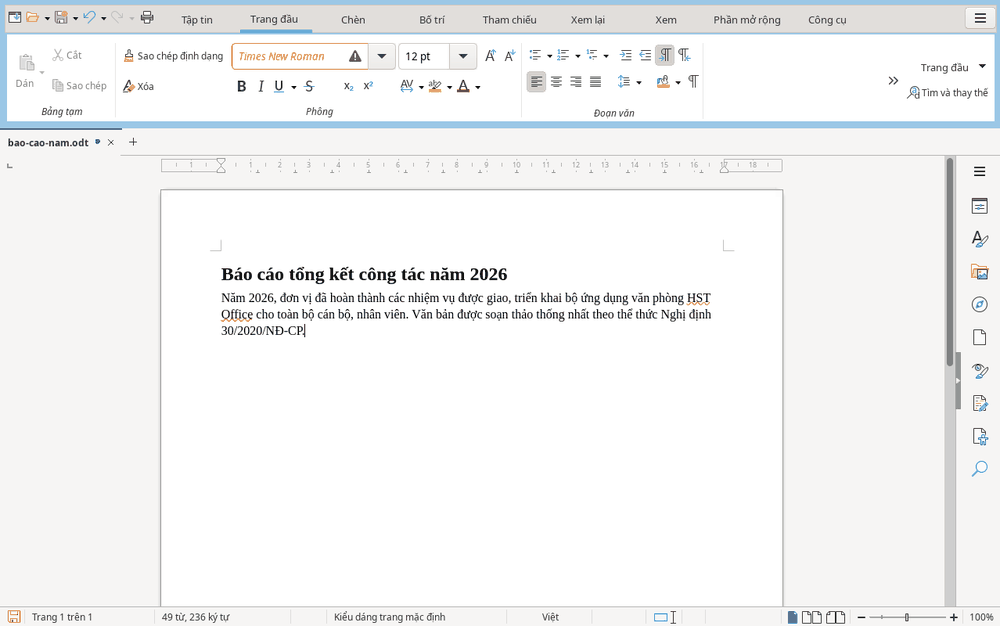
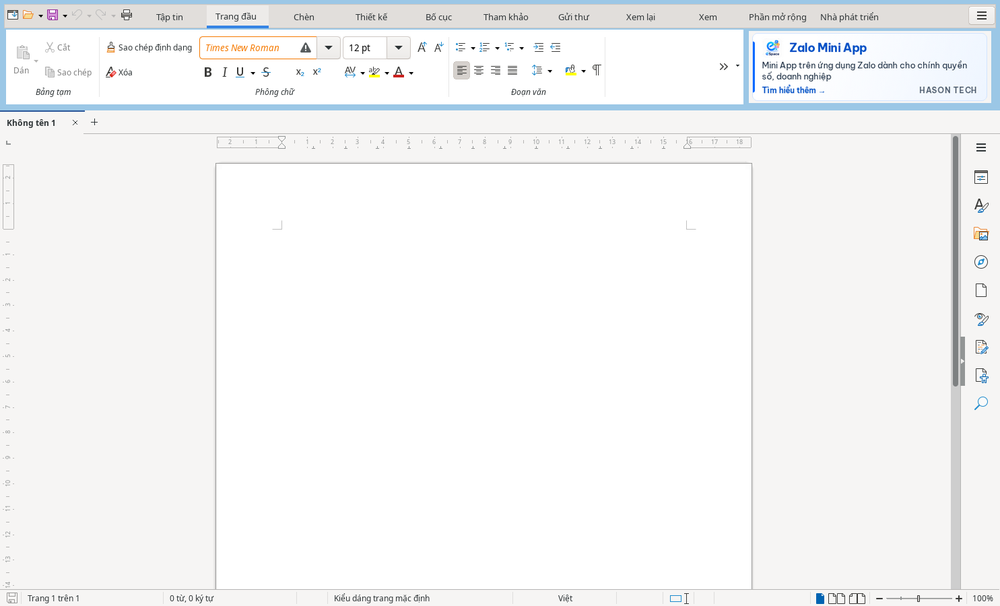
fix(help): Writer screenshot with the new ribbon, startup abort count in the backlog

diff --git a/extensions/hst-vietnamese-tools/help/van-ban-soan-thao.html b/extensions/hst-vietnamese-tools/help/van-ban-soan-thao.html
@@ -36,7 +36,7 @@
   <li>Mở thẻ <span class="menu">Trang đầu</span> để đổi phông và cỡ chữ.</li>
   <li>Dùng <span class="keys"><kbd>Ctrl</kbd>+<kbd>B</kbd></span> để in đậm, <span class="keys"><kbd>Ctrl</kbd>+<kbd>I</kbd></span> để in nghiêng hoặc <span class="keys"><kbd>Ctrl</kbd>+<kbd>U</kbd></span> để gạch chân.</li>
 </ol>
-<figure><img src="images/writer-home.png" alt="Thẻ Trang đầu trong HST Writer hiển thị phông Times New Roman, cỡ chữ 12 pt và các nút định dạng chữ." loading="lazy" width="1000" height="626"><figcaption>Các lệnh phông chữ và đoạn văn nằm trên thẻ <span class="menu">Trang đầu</span>.</figcaption></figure>
+<figure><img src="images/writer-home.png" alt="Thẻ Trang đầu trong HST Writer hiển thị phông Times New Roman, cỡ chữ 12 pt và các nút định dạng chữ." loading="lazy" width="1000" height="606"><figcaption>Các lệnh phông chữ và đoạn văn nằm trên thẻ <span class="menu">Trang đầu</span>.</figcaption></figure>
 <h2>Căn lề đoạn văn</h2>
 <p>Chọn đoạn cần định dạng, rồi dùng phím tắt tương ứng.</p>
 <table><thead><tr><th scope="col">Cách căn</th><th scope="col">Phím tắt</th></tr></thead><tbody>

diff --git a/extensions/hst-vietnamese-tools/help/giao-dien.html b/extensions/hst-vietnamese-tools/help/giao-dien.html
@@ -29,7 +29,7 @@
   <p class="eyebrow">Bắt đầu</p>
   <h1>Giao diện theo thẻ</h1>
 <p class="lead">Giao diện <span class="menu">Theo thẻ</span> được bật sẵn. Các lệnh được xếp thành nhóm trên các thẻ ở phía trên cửa sổ.</p>
-<figure><img src="images/writer-home.png" alt="HST Writer mở thẻ Trang đầu, với các nhóm Phông chữ, Đoạn văn và dãy biểu tượng Thanh bên ở bên phải." loading="lazy" width="1000" height="626"><figcaption>Thẻ <span class="menu">Trang đầu</span> trong HST Writer; <span class="menu">Thanh bên</span> nằm ở cạnh phải.</figcaption></figure>
+<figure><img src="images/writer-home.png" alt="HST Writer mở thẻ Trang đầu, với các nhóm Phông chữ, Đoạn văn và dãy biểu tượng Thanh bên ở bên phải." loading="lazy" width="1000" height="606"><figcaption>Thẻ <span class="menu">Trang đầu</span> trong HST Writer; <span class="menu">Thanh bên</span> nằm ở cạnh phải.</figcaption></figure>
 <h2>Tìm lệnh theo công việc</h2>
 <ul>
   <li><span class="menu">Tập tin</span>: tạo, mở, lưu, in và xuất PDF.</li>

diff --git a/docs/BACKLOG.md b/docs/BACKLOG.md
@@ -108,7 +108,7 @@ Bảng cũ được lưu tại Git main `577f620`, [plan plugin-first](../plans/
   - Chuyển tab tài liệu mượt như trình duyệt trên cả 3 hệ điều hành (chủ dự án 2026-10-31): trên macOS mỗi lần chuyển tab trông như chuyển sang màn hình khác; tìm nguyên nhân (mỗi tab là một cửa sổ riêng bị ẩn/hiện) và sửa cho chuyển tab tức thì, không hiệu ứng, cùng vị trí/kích thước.
 - **v1.0.0-beta.5 (chủ dự án 2026-11-04: không phát hành beta.4.1; mọi sửa lỗi sau beta.4 và các việc dưới đây vào beta.5):**
   - Ribbon theo Microsoft Office: thẻ và nhóm của Writer, Sheets, Slides theo Word, Excel, PowerPoint (đã làm, `hst-ribbon-tabs.patch`, `tests/runtime/check-ribbon-tabs.py`; chỉ thử trên gtk3 Linux, Windows/macOS chưa thử). Chuyển tiếp và Hoạt hình mở bảng bên, chưa có bộ sưu tập hiệu ứng ngay trên ribbon.
-  - Chưa rõ nguyên nhân: một lần soffice dừng (signal 6) trong `SfxDispatcher::QueryState` khi ribbon được dựng từ `SwDocShell::GetState` lúc đang nạp tài liệu (báo 2026-11-05). Không tái hiện được: 0/630 lần khởi động. `hst-writer-ribbon-own-view.patch` là chốt phòng thủ, chưa chứng minh là sửa đúng; mở lại nếu gặp lần nữa.
+  - Chưa rõ nguyên nhân: một lần soffice dừng (signal 6) trong `SfxDispatcher::QueryState` khi ribbon được dựng từ `SwDocShell::GetState` lúc đang nạp tài liệu (báo 2026-11-05). Không tái hiện được: 0/450 lần khởi động có mở tài liệu (thêm 180 lần khởi động thường chưa chắc đã qua hộp thoại chào mừng). `hst-writer-ribbon-own-view.patch` là chốt phòng thủ, chưa chứng minh là sửa đúng; mở lại nếu gặp lần nữa.
   - Thẻ theo vùng chọn (bảng, ảnh, biểu đồ, hình vẽ; `hst-ribbon-contextual.patch`, `tests/runtime/check-ribbon-contextual.py`) và Mẹo phím Alt (`hst-ribbon-keytips.patch`, `tests/runtime/check-ribbon-keytips.py`): đã làm, chỉ thử trên gtk3 Linux. Chưa thử Windows/macOS; Option trên macOS và bộ gõ tiếng Việt (IBus, Unikey) có thể chặn phím, chưa thử.
   - *Sửa lỗi sau beta.4 (đã làm):*
   - macOS: nút "+" → "Mở tệp…" → chọn tệp làm ứng dụng treo lâu rồi màn hình trắng; phải dùng Tập tin ▸ Mở trên thanh menu mới mở được. Kiểm tra cùng đường đi trên Windows/Linux và thêm vào bài kiểm tra tab.
